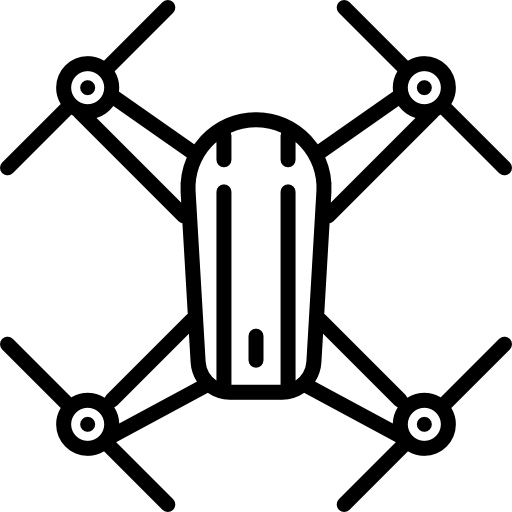
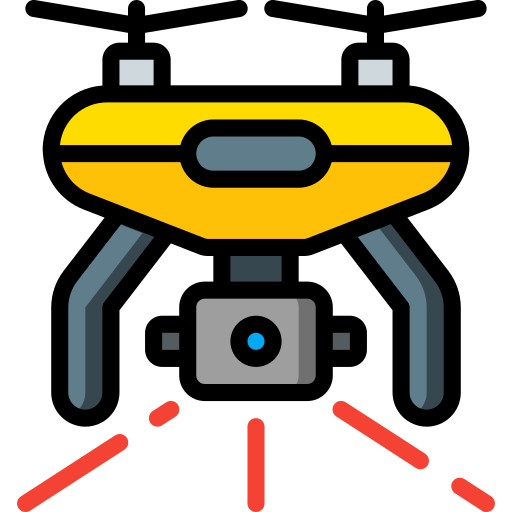
testing images for drones

diff --git a/src/ui/visualizer.py b/src/ui/visualizer.py
@@ -23,8 +23,12 @@ class Visualizer:
         self.hubs = self._generate_hubs()
 
         # try
-        drone_original = pygame.image.load("src/ui/img/drone.png").convert_alpha()
-        self.drone_image = pygame.transform.scale(drone_original, (30,30))
+        drone_original1 = pygame.image.load("src/ui/img/drone.png").convert_alpha()
+        self.drone_image1 = pygame.transform.scale(drone_original1, (30,30))
+        drone_original2 = pygame.image.load("src/ui/img/drone_bw.png").convert_alpha()
+        self.drone_image2 = pygame.transform.scale(drone_original2, (30,30))
+
+
 
     def to_pygame_coords(self, model_x: float, model_y: float) -> tuple[int, int]:
             """
@@ -85,10 +89,17 @@ class Visualizer:
             ym = (drone.current_zone.y + drone.next_zone.y) / 2
             pos = self.to_pygame_coords(xm, ym)
 
-            drone_rect = self.drone_image.get_rect()
-            drone_rect.center = pos
-            self.screen.blit(self.drone_image, drone_rect)
-            # pygame.draw.circle(self.screen, color, pos, 5)
+            if drone.id == 1:
+                drone_rect1 = self.drone_image1.get_rect()
+                drone_rect1.center = pos
+                self.screen.blit(self.drone_image1, drone_rect1)
+            elif drone.id == 2:
+                drone_rect2 = self.drone_image2.get_rect()
+                drone_rect2.center = pos
+                self.screen.blit(self.drone_image2, drone_rect2)
+
+            else:
+                pygame.draw.circle(self.screen, color, pos, 5)
 
         pygame.display.flip()
-        self.clock.tick(1) # Forzar 60 fotogramas por segundo
+        self.clock.tick(0.5) # Forzar 60 fotogramas por segundo

diff --git a/src/engine/main.py b/src/engine/main.py
@@ -166,12 +166,12 @@ def fly_in(map_file: str) -> None:
 if __name__ == "__main__":
 
     maps: list[str] = [
-        'data/maps/easy/01_linear_path.txt',
-        'data/maps/easy/02_simple_fork.txt',
-        'data/maps/easy/03_basic_capacity.txt',
-        # 'data/maps/medium/01_dead_end_trap.txt',
-        # 'data/maps/medium/02_circular_loop.txt',
-        # 'data/maps/medium/03_priority_puzzle.txt',
+        # 'data/maps/easy/01_linear_path.txt',
+        # 'data/maps/easy/02_simple_fork.txt',
+        # 'data/maps/easy/03_basic_capacity.txt',
+        'data/maps/medium/01_dead_end_trap.txt',
+        'data/maps/medium/02_circular_loop.txt',
+        'data/maps/medium/03_priority_puzzle.txt',
         # 'data/maps/hard/01_maze_nightmare.txt',
         # 'data/maps/hard/02_capacity_hell.txt',
         # 'data/maps/hard/03_ultimate_challenge.txt',